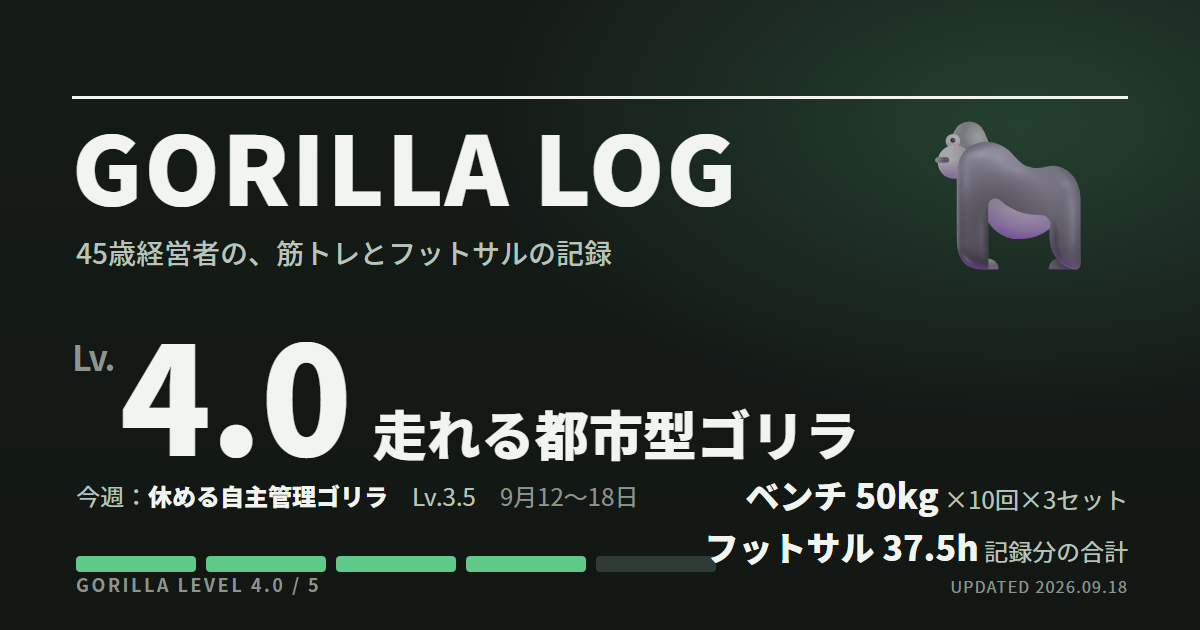
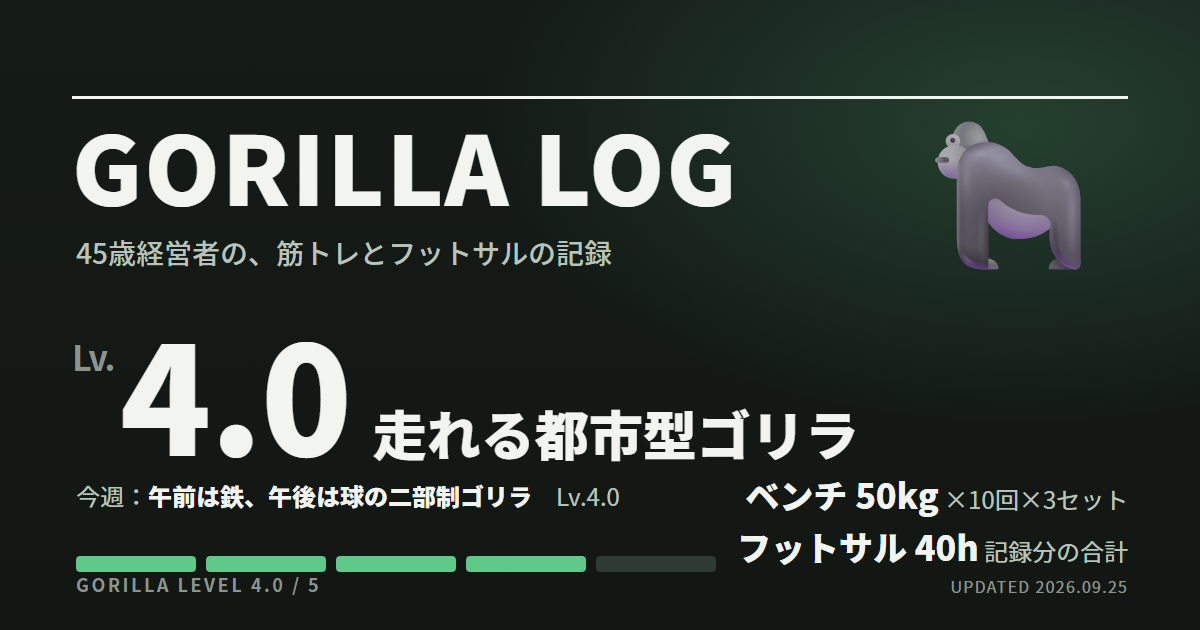
week of 2026-09-25: R38〜R42 を追加、中止タイプと同日2セッションを導入
- 9/20 フットサル中止（台風・採点外）、9/21 自宅16セット、9/22 AM ジム（ベンチ50・スクワット65）＋ PM フットサル2.5h、9/24 自宅16セット
- 週判定「午前は鉄、午後は球の二部制ゴリラ Lv.4.0」と9/22同日判定
- type: "cancel" と session: "AM"/"PM" に対応（カレンダー2色セル、直近7日2段表示）
- OGP テンプレートの週表示から範囲を外し、右側の数字との重なりを解消

Changed region(s): [[0.1233, 0.754, 0.5242, 0.8143], [0.5858, 0.8444, 0.8017, 0.9048], [0.925, 0.9048, 0.9558, 0.9349]]

diff --git a/data/records.js b/data/records.js
@@ -11,9 +11,11 @@
    ■ record の項目
      id        : "R34" のような連番
      date      : "2026-09-18"（YYYY-MM-DD）。曜日から推定した日付なら estimated: true
-     type      : "gym" | "futsal" | "home" | "rest"（rest＝予定していたジムを休んだ記録。level は書かず採点外）
+     type      : "gym" | "futsal" | "home" | "rest" | "cancel"
+                 rest＝予定していたジムを休んだ記録、cancel＝天候などで中止になった記録。どちらも level を書かず採点外
+     session   : "AM" | "PM"  同じ日に2セッションある場合だけ付ける（任意）
      title     : 一覧に出る短い見出し
-     level     : ゴリラレベル 2.0〜5.0（0.5刻み）。休養(rest)は省略
+     level     : ゴリラレベル 2.0〜5.0（0.5刻み）。休養(rest)・中止(cancel)は省略
      provisional : true なら「暫定」。数値が画像未確認など
      nickname  : その日の称号（例「50kg三連完遂ゴリラ」）
      note      : 一言コメント（振り返り）
@@ -32,7 +34,7 @@ window.GORILLA_DATA = {
   meta: {
     siteName: "GORILLA LOG",
     tagline: "45歳経営者の、筋トレとフットサルの記録",
-    updated: "2026-09-18",
+    updated: "2026-09-25",
     since: "2025-09",
     overallLevel: 4.0,
     overallTitle: "走れる都市型ゴリラ",
@@ -341,6 +343,46 @@ window.GORILLA_DATA = {
       exercises: ["ダンベルプレス 7.5kg×15×3", "ワンハンドローイング 7.5kg×30×3", "ブルガリアンスクワット 自重×20×3", "ダンベルフライ 7.5kg×10×3", "フロントレイズ 7.5kg×10×2", "フレンチプレス 7.5kg×15×2"],
       source: "画像で確認",
     },
+    {
+      id: "R38", date: "2026-09-20", type: "cancel",
+      title: "フットサル中止（台風）",
+      nickname: "台風には張り合わないゴリラ",
+      note: "台風のためキャンセル。未実施を怠慢や身体能力の低下として扱わず、他の日に取り返す必要があるとも考えない。中止と終日完全休養は同義ではない。",
+      source: "9月25日の本人報告",
+    },
+    {
+      id: "R39", date: "2026-09-21", type: "home",
+      title: "自宅トレ 6種目・16セット（フライ10・10・20回）", level: 3.5, sets: 16,
+      nickname: "フライ20回を記録する自宅ゴリラ",
+      note: "9月18日と同じ6種目・重量・セット数で、フライの最終セットが10回から20回へ（計40回）。反復数の増加は記録するが、最大筋力が比例して伸びたとは評価しない。翌日は午前ジム・午後フットサル。",
+      exercises: ["ダンベルプレス 7.5kg×15×3", "ワンハンドローイング 7.5kg×30×3", "ブルガリアンスクワット 自重×20×3", "ダンベルフライ 7.5kg×10・10・20", "フロントレイズ 7.5kg×10×2", "フレンチプレス 7.5kg×15×2"],
+      source: "画像で確認",
+    },
+    {
+      id: "R40", date: "2026-09-22", session: "AM", type: "gym",
+      title: "ベンチ50kg×10×3／スクワット65kg×10×3／インクライン32.5kg・ラットプル37kg", level: 4.0,
+      nickname: "50kg・65kgへ戻ってきたゴリラ",
+      note: "9月14日に疲労で休んだ後、ジムに戻って従来の実施内容を再び記録。インクラインは後半2セットが30kgから32.5kgへ（直近比の増量で、過去最高の認定ではない）。フロントレイズ枠がラットプルダウンになり、引く動作を含む。",
+      bench: { w: 50, reps: [10, 10, 10], full: true, verified: true },
+      squat: { w: 65, reps: [10, 10, 10], verified: true },
+      exercises: ["上体起こし 自重×10×3", "ベンチプレス 20×10, 30×5, 50×10×3, 35×10", "インクラインベンチプレス 30×10, 32.5×10×2", "バーベルスクワット 20×10, 40×5, 65×10×3", "ラットプルダウン 35×10, 37×10×2"],
+      source: "画像で確認",
+    },
+    {
+      id: "R41", date: "2026-09-22", session: "PM", type: "futsal",
+      title: "フットサル2.5時間（午前ジムと同日）", hours: 2.5, level: 3.5, provisional: true,
+      nickname: "午後はコートへ移動するゴリラ",
+      note: "午前にスクワット65kg×10×3を含むジム記録があるため、同日の負荷としても見る。同日実施が可能という一般論だけで、この配置が最適だったとは結論づけない。",
+      source: "9月25日の本人報告",
+    },
+    {
+      id: "R42", date: "2026-09-24", type: "home",
+      title: "自宅トレ 6種目・16セット（フライ12・12・20回）", level: 3.5, sets: 16,
+      nickname: "最初の2セットも積み上げるゴリラ",
+      note: "9月21日と同じ構成で、フライの1・2セット目が10回から12回へ（計44回）。フライ以外は前回と同じで、全種目が伸びた週とはまとめない。22日の2部練習後の実施だが、完全回復の証明にはしない。",
+      exercises: ["ダンベルプレス 7.5kg×15×3", "ワンハンドローイング 7.5kg×30×3", "ブルガリアンスクワット 自重×20×3", "ダンベルフライ 7.5kg×12・12・20", "フロントレイズ 7.5kg×10×2", "フレンチプレス 7.5kg×15×2"],
+      source: "画像で確認",
+    },
   ],
 
   /* 週単位・期間単位のゴリラ判定（新しいものを末尾に追加）。comment は「今週のひと言」（任意） */
@@ -352,6 +394,9 @@ window.GORILLA_DATA = {
     { range: "9月5〜11日", combo: "筋トレ3日＋フットサル2日・計4.5時間", level: 4.0, name: "走れる都市型ゴリラ", note: "自宅10＋16セット、ジム16セット。胸・肩にやや偏り" },
     { range: "9月12〜18日", combo: "自宅トレ2日・計32セット＋フットサル1日・2時間／14日のジムは休養", level: 3.5, name: "休める自主管理ゴリラ", note: "運動日3日。疲労による休養は採点外。前週の胸16・背中3セットから、胸12・背中6セットへ",
       comment: "ジムを1回休んだと申告しながら、家では16セットを2回、週末にはフットサル2時間。人間に戻ったわけではなく、勤務形態を調整したゴリラである。ただし、自宅支店まで無休営業にする必要はない。" },
+    { range: "9月22日・同日全体", combo: "午前ジム20セット／午後フットサル2.5時間", level: 4.0, name: "鉄と球の二部制ゴリラ", note: "R40・R41の再整理。追加の実施回数には数えない" },
+    { range: "9月19〜25日（24日までの報告）", combo: "自宅2回＋ジム1回＋フットサル1回・2.5時間／20日は台風で中止", level: 4.0, name: "午前は鉄、午後は球の二部制ゴリラ", note: "運動日3日・4セッション。準備除外48セット（前週32）。胸19・背中9セット。21日→22日への負荷集中に注意",
+      comment: "午前は65kgを担ぎ、午後はボールを追い、別の日には家で16セット。ジムとコートと自宅を使い分ける、二部制ゴリラである。ただし、身体は二交代制ではない。午前の脚と午後の脚は、同じ脚です。" },
   ],
 
   /* 個別の日付に割り当てない継続習慣 */

diff --git a/app.js b/app.js
@@ -4,8 +4,10 @@
   const D = window.GORILLA_DATA;
   const $ = (s) => document.querySelector(s);
   const esc = (s) => String(s ?? "").replace(/[&<>"']/g, (c) => ({ "&": "&amp;", "<": "&lt;", ">": "&gt;", '"': "&quot;", "'": "&#39;" }[c]));
-  const TYPE = { gym: "ジム", futsal: "フットサル", home: "自宅トレ", rest: "休養" };
-  const TYPE_SHORT = { gym: "ジ", futsal: "フ", home: "宅", rest: "休" };
+  const TYPE = { gym: "ジム", futsal: "フットサル", home: "自宅トレ", rest: "休養", cancel: "中止" };
+  const OFF = (t) => t === "rest" || t === "cancel";
+  const COLOR = { gym: "var(--gym)", futsal: "var(--futsal)", home: "var(--home)", rest: "var(--muted)", cancel: "var(--muted)" };
+  const TYPE_SHORT = { gym: "ジ", futsal: "フ", home: "宅", rest: "休", cancel: "止" };
   const DOW = ["日", "月", "火", "水", "木", "金", "土"];
   const parse = (s) => { const [y, m, d] = s.split("-").map(Number); return new Date(y, m - 1, d); };
   const iso = (d) => `${d.getFullYear()}-${String(d.getMonth() + 1).padStart(2, "0")}-${String(d.getDate()).padStart(2, "0")}`;
@@ -66,9 +68,8 @@
   $("#stripRange").textContent = `${md(stripDays[0])}〜${md(stripDays[6])}`;
   $("#strip").innerHTML = stripDays.map((d) => {
     const rs = byDate[iso(d)] || [];
-    const r = rs[0];
-    const t = r ? `<span class="t">${esc(TYPE[r.type])}</span><span>${r.type === "rest" ? "採点外" : r.hours != null ? r.hours + "h" : r.sets ? r.sets + "set" : "Lv." + lv(r.level)}</span>` : `<span>記録なし</span>`;
-    return `<div class="day ${r ? r.type : ""}"><b>${md(d)}</b>${DOW[d.getDay()]}${t}</div>`;
+    const t = rs.length ? rs.map((r) => `<span class="t">${r.session ? r.session + " " : ""}${esc(TYPE[r.type])}</span><span>${OFF(r.type) ? "採点外" : r.hours != null ? r.hours + "h" : r.sets ? r.sets + "set" : "Lv." + lv(r.level)}</span>`).join("") : `<span>記録なし</span>`;
+    return `<div class="day ${rs.length ? rs[0].type : ""}"><b>${md(d)}</b>${DOW[d.getDay()]}${t}</div>`;
   }).join("");
 
   /* ---------- calendar ---------- */
@@ -82,9 +83,11 @@
       for (let i = 0; i < 7; i++) {
         const d = addDays(w, i), k = iso(d), rs = byDate[k] || [];
         const r = rs[0];
-        const cls = ["cell", r ? r.type : "", r && r.estimated ? "est" : "", k > latestDate ? "future" : "", k === latestDate ? "today" : ""].join(" ");
-        const title = r ? `${k}（${DOW[d.getDay()]}）${TYPE[r.type]}：${r.title}` : `${k}（${DOW[d.getDay()]}）記録なし`;
-        html += `<div class="${cls}" title="${esc(title)}" aria-label="${esc(title)}">${r ? TYPE_SHORT[r.type] : ""}</div>`;
+        const multi = rs.length > 1;
+        const cls = ["cell", r ? r.type : "", multi ? "multi" : "", r && r.estimated ? "est" : "", k > latestDate ? "future" : "", k === latestDate ? "today" : ""].join(" ");
+        const title = rs.length ? `${k}（${DOW[d.getDay()]}）` + rs.map((x) => `${x.session ? x.session + " " : ""}${TYPE[x.type]}：${x.title}`).join(" ／ ") : `${k}（${DOW[d.getDay()]}）記録なし`;
+        const style = multi ? ` style="background:linear-gradient(135deg,${COLOR[rs[0].type]} 50%,${COLOR[rs[1].type]} 50%)"` : "";
+        html += `<div class="${cls}"${style} title="${esc(title)}" aria-label="${esc(title)}">${multi ? rs.slice(0, 2).map((x) => TYPE_SHORT[x.type]).join("") : r ? TYPE_SHORT[r.type] : ""}</div>`;
       }
     }
     $("#cal").innerHTML = html;
@@ -227,7 +230,7 @@
     pts.forEach((p, i) => {
       const cx = sc.x(p.date), cy = y(p.level);
       svg += `<circle cx="${cx}" cy="${cy}" r="6.5" fill="var(--surface)"/><circle cx="${cx}" cy="${cy}" r="4.5" fill="var(--${p.type})"/><circle class="hit" data-i="${i}" cx="${cx}" cy="${cy}" r="12"/>`;
-      tips.push(`<b>${dateLabel(p)}・${TYPE[p.type]}</b>Lv.${lv(p.level)}${p.provisional ? "（暫定）" : ""} ${esc(p.nickname)}<br><small>${esc(p.title)}</small>`);
+      tips.push(`<b>${dateLabel(p)}${p.session ? " " + p.session : ""}・${TYPE[p.type]}</b>Lv.${lv(p.level)}${p.provisional ? "（暫定）" : ""} ${esc(p.nickname)}<br><small>${esc(p.title)}</small>`);
     });
     const rows = pts.slice().reverse().map((p) => [dateLabel(p), TYPE[p.type], lv(p.level) + (p.provisional ? " 暫定" : ""), p.nickname]);
     mount("levelChart", svg, tbl([{ t: "日付" }, { t: "種類" }, { t: "Lv.", r: 1 }, { t: "称号" }], rows), tips);
@@ -249,11 +252,11 @@
   /* ---------- records ---------- */
   let filter = "all", showAll = false;
   const LIMIT = 8;
-  const rest = records.filter((r) => r.type === "rest");
-  $("#filters").innerHTML = [["all", "すべて", records.length], ["gym", "ジム", gym.length], ["futsal", "フットサル", futsal.length], ["home", "自宅トレ", home.length], ["rest", "休養", rest.length]]
+  const off = records.filter((r) => OFF(r.type));
+  $("#filters").innerHTML = [["all", "すべて", records.length], ["gym", "ジム", gym.length], ["futsal", "フットサル", futsal.length], ["home", "自宅トレ", home.length], ["off", "休養・中止", off.length]]
     .map(([k, n, c]) => `<button class="chip" type="button" data-f="${k}" aria-pressed="${k === "all"}">${k !== "all" ? `<i class="sw ${k}"></i>` : ""}${n} <span class="num">${c}</span></button>`).join("");
   function renderRecords() {
-    const list = records.slice().reverse().filter((r) => filter === "all" || r.type === filter);
+    const list = records.slice().reverse().filter((r) => filter === "all" || (filter === "off" ? OFF(r.type) : r.type === filter));
     const shown = showAll ? list : list.slice(0, LIMIT);
     $("#recList").innerHTML = shown.map((r) => {
       const d = parse(r.date);
@@ -268,10 +271,10 @@
       if (r.source) tags.push(r.source);
       const det = r.exercises ? `<details><summary>種目の内訳（${r.exercises.length}種目）</summary><ul>${r.exercises.map((e) => `<li>${esc(e)}</li>`).join("")}</ul></details>` : "";
       return `<article class="rec ${r.type}">
-        <div class="date"><b class="num">${d.getMonth() + 1}/${d.getDate()}</b><span class="dow">${d.getFullYear()}年・${DOW[d.getDay()]}曜${r.estimated ? "・推定" : ""}</span></div>
+        <div class="date"><b class="num">${d.getMonth() + 1}/${d.getDate()}</b><span class="dow">${d.getFullYear()}年・${DOW[d.getDay()]}曜${r.session ? "・" + r.session : ""}${r.estimated ? "・推定" : ""}</span></div>
         <div class="main"><div class="type">${esc(TYPE[r.type])}</div><div class="title">${esc(r.title)}</div><div class="nick">${esc(r.nickname)}</div><p class="note">${esc(r.note)}</p>
           <div class="meta">${tags.map((t) => `<span class="tag">${esc(t)}</span>`).join("")}</div></div>
-        <div class="lv">${r.level == null ? `<b class="na">休</b><small>採点外</small>` : `<b>${lv(r.level)}</b><small>/ 5</small>`}</div>${det}
+        <div class="lv">${r.level == null ? `<b class="na">${r.type === "cancel" ? "止" : "休"}</b><small>採点外</small>` : `<b>${lv(r.level)}</b><small>/ 5</small>`}</div>${det}
       </article>`;
     }).join("");
     $("#moreBtn").hidden = showAll || list.length <= LIMIT;

diff --git a/index.html b/index.html
@@ -181,7 +181,9 @@ td.r,th.r{text-align:right}
 .cal .dh{color:var(--muted); text-align:center; font-weight:500; padding-bottom:2px}
 .cell{aspect-ratio:1; width:100%; border-radius:5px; background:var(--surface-2); display:grid; place-items:center; font-size:11px; font-weight:700; color:var(--ink); position:relative; cursor:default}
 .cell.gym{background:var(--gym); color:#fff} .cell.futsal{background:var(--futsal); color:#fff} .cell.home{background:var(--home); color:#161a17}
-.cell.rest{background:transparent; border:2px solid var(--muted); color:var(--ink-2)}
+.cell.rest, .cell.cancel{background:transparent; border:2px solid var(--muted); color:var(--ink-2)}
+.cell.cancel{border-style:dashed}
+.cell.multi{color:#fff; font-size:9.5px; letter-spacing:-.02em; border:0}
 .cell.est::after{content:""; position:absolute; right:3px; top:3px; width:5px; height:5px; border-radius:50%; background:var(--surface)}
 .cell.future{background:transparent; border:1px dashed var(--hair)}
 .cell.today{outline:2px solid var(--ink); outline-offset:1px}
@@ -198,7 +200,7 @@ td.r,th.r{text-align:right}
 .strip .day{flex:1 1 0; min-width:40px; border-radius:8px; padding:6px 4px; text-align:center; font-size:11px; background:var(--surface-2); color:var(--muted); line-height:1.3}
 .strip .day b{display:block; font-size:12px; color:var(--ink)}
 .strip .day.gym{background:var(--gym-wash)} .strip .day.futsal{background:var(--futsal-wash)} .strip .day.home{background:var(--home-wash)}
-.strip .day.rest{background:transparent; border:1px dashed var(--muted)}
+.strip .day.rest, .strip .day.cancel{background:transparent; border:1px dashed var(--muted)}
 .strip .day .t{display:block; font-weight:700; color:var(--ink)}
 
 /* records */
@@ -209,7 +211,7 @@ td.r,th.r{text-align:right}
 .rec-list{display:grid; gap:10px}
 .rec{background:var(--surface); border:1px solid var(--border); border-radius:12px; padding:14px 16px; display:grid; grid-template-columns:auto 1fr auto; gap:6px 16px; align-items:start; border-left:4px solid var(--hair)}
 .rec.gym{border-left-color:var(--gym)} .rec.futsal{border-left-color:var(--futsal)} .rec.home{border-left-color:var(--home)}
-.rec.rest{border-left-color:var(--muted); background:var(--surface-2)}
+.rec.rest, .rec.cancel{border-left-color:var(--muted); background:var(--surface-2)}
 .rec .lv b.na{font-size:20px; color:var(--muted)}
 .rec .date{font-size:12.5px; color:var(--muted); line-height:1.4; min-width:78px}
 .rec .date b{display:block; font-size:15px; color:var(--ink); font-weight:700}
@@ -306,9 +308,9 @@ footer{margin-top:40px; padding-top:18px; border-top:1px solid var(--hair); font
 </section>
 
 <section aria-labelledby="h-cal">
-  <div class="sec-head"><h2 id="h-cal">活動カレンダー</h2><p>週ごとの運動日。ジ＝ジム、フ＝フットサル、宅＝自宅トレ、休＝予定していたジムの休養。右上の小さな点は、曜日から推定した日付。</p></div>
+  <div class="sec-head"><h2 id="h-cal">活動カレンダー</h2><p>週ごとの運動日。ジ＝ジム、フ＝フットサル、宅＝自宅トレ、休＝ジムの休養、止＝天候などによる中止。2色のセルは同じ日の午前・午後。右上の小さな点は、曜日から推定した日付。</p></div>
   <div class="card">
-    <div class="legend"><span><i class="sw sq gym"></i>ジム</span><span><i class="sw sq futsal"></i>フットサル</span><span><i class="sw sq home"></i>自宅トレ</span><span><i class="sw sq rest"></i>休養（採点外）</span></div>
+    <div class="legend"><span><i class="sw sq gym"></i>ジム</span><span><i class="sw sq futsal"></i>フットサル</span><span><i class="sw sq home"></i>自宅トレ</span><span><i class="sw sq rest"></i>休養・中止（採点外）</span></div>
     <div class="cal" id="cal"></div>
     <p class="cal-note" id="calNote"></p>
   </div>
@@ -340,7 +342,7 @@ footer{margin-top:40px; padding-top:18px; border-top:1px solid var(--hair); font
 </section>
 
 <section aria-labelledby="h-rec">
-  <div class="sec-head"><h2 id="h-rec">全記録</h2><p>新しい順。「暫定」は数値を画像で確認できていない回。「推定」は曜日から割り出した日付。休養は採点外で、Lv.0として平均を下げない。</p></div>
+  <div class="sec-head"><h2 id="h-rec">全記録</h2><p>新しい順。「暫定」は数値を画像で確認できていない回。「推定」は曜日から割り出した日付。休養・中止は採点外で、Lv.0として平均を下げない。</p></div>
   <div class="filters" id="filters" role="group" aria-label="種類で絞り込み"></div>
   <div class="rec-list" id="recList"></div>
   <div class="more"><button class="btn" id="moreBtn" type="button">すべて表示</button></div>

diff --git a/scripts/build-og.js b/scripts/build-og.js
@@ -39,7 +39,7 @@ body{background:#121714;color:#f1f4ef;font-family:"Noto Sans CJK JP","Noto Sans 
 .lv{font-size:150px;font-weight:900;line-height:1;letter-spacing:-.01em}
 .lv small{font-size:34px;font-weight:700;color:#8b958e;vertical-align:top;position:relative;top:22px;margin-right:6px}
 .title{font-size:54px;font-weight:900;line-height:1.1}
-.week{position:absolute;left:76px;top:478px;font-size:24px;color:#b9c2bb}
+.week{position:absolute;left:76px;top:478px;font-size:24px;color:#b9c2bb;max-width:600px;white-space:nowrap;overflow:hidden;text-overflow:ellipsis}
 .week b{color:#f1f4ef;font-weight:900}
 .meter{position:absolute;left:76px;bottom:58px;display:flex;gap:10px}
 .meter span{width:120px;height:16px;border-radius:4px;background:#2f3a33;overflow:hidden;position:relative}
@@ -55,7 +55,7 @@ body{background:#121714;color:#f1f4ef;font-family:"Noto Sans CJK JP","Noto Sans 
 <div class="tag">${esc(D.meta.tagline)}</div>
 <div class="gor">🦍</div>
 <div class="lvwrap"><div class="lv"><small>Lv.</small>${lv.toFixed(1)}</div><div class="title">${esc(D.meta.overallTitle)}</div></div>
-<div class="week">今週：<b>${esc(week.name)}</b>${week.level != null ? `　Lv.${week.level.toFixed(1)}` : ""}　<span style="color:#8b958e">${esc(week.range)}</span></div>
+<div class="week">今週：<b>${esc(week.name)}</b>${week.level != null ? `　Lv.${week.level.toFixed(1)}` : ""}</div>
 <div class="meter">${[1, 2, 3, 4, 5].map((i) => `<span><i style="width:${Math.max(0, Math.min(1, lv - (i - 1))) * 100}%"></i></span>`).join("")}</div>
 <div class="cap">GORILLA LEVEL ${lv.toFixed(1)} / 5</div>
 <div class="stats">${lastBench ? `<b>ベンチ ${lastBench.bench.w}kg</b> ${fmtReps(lastBench.bench)}<br>` : ""}<b>フットサル ${futsalHours}h</b> 記録分の合計</div>

diff --git a/DESIGN_AND_OPERATIONS.md b/DESIGN_AND_OPERATIONS.md
@@ -68,9 +68,10 @@ GORILLA_DATA
 | `id` | 文字列 | ○ | `"R34"` のような連番。表示には使わないが追跡用 |
 | `date` | `"YYYY-MM-DD"` | ○ | 実施日。ソートとカレンダー配置に使う |
 | `estimated` | 真偽 | | 曜日から推定した日付なら `true`。一覧に「推定」、カレンダーに小さな点 |
-| `type` | `"gym"` / `"futsal"` / `"home"` / `"rest"` | ○ | 色・集計・フィルタの軸。`rest` は予定していたジムの休養 |
+| `type` | `"gym"` / `"futsal"` / `"home"` / `"rest"` / `"cancel"` | ○ | 色・集計・フィルタの軸。`rest` はジムの休養、`cancel` は天候などによる中止 |
+| `session` | `"AM"` / `"PM"` | | 同日2セッションのときだけ。一覧の日付、ツールチップ、直近7日に表示 |
 | `title` | 文字列 | ○ | 一覧の見出し |
-| `level` | 数値 | ○ | 2.0〜5.0、0.5刻み。`rest` は書かない（採点外） |
+| `level` | 数値 | ○ | 2.0〜5.0、0.5刻み。`rest` / `cancel` は書かない（採点外） |
 | `provisional` | 真偽 | | 数値を画像で確認できていない回。「暫定」表示 |
 | `nickname` | 文字列 | ○ | その日の称号 |
 | `note` | 文字列 | ○ | 振り返りの一言 |
@@ -82,7 +83,7 @@ GORILLA_DATA
 | `exercises` | 文字列[] | | 種目の全リスト。一覧で折りたたみ表示 |
 | `source` | 文字列 | | 出典メモ。タグとして表示 |
 
-**休養（`type: "rest"`）の扱い：** 運動実施回数・セット数・レベル推移グラフには入れない。カレンダーと直近7日には「休」として出し、一覧では「採点外」。Lv.0 として平均を下げない、という元アーカイブの方針をそのまま実装している。
+**休養・中止（`type: "rest"` / `"cancel"`）の扱い：** 運動実施回数・セット数・レベル推移グラフには入れない。カレンダーと直近7日には「休」「止」として出し、一覧では「採点外」。フィルタでは「休養・中止」の1チップにまとめる。Lv.0 として平均を下げない、という元アーカイブの方針をそのまま実装している。
 
 `bench.full` は三値：`true`（10回×3セット達成）、`false`（未達・一部）、`null`（回数不明）。グラフの点の形が変わる（塗り／輪／破線の輪）。
 
@@ -117,7 +118,7 @@ GORILLA_DATA
 ### 4.3 活動カレンダー
 
 - 範囲：2026-06-01 以降の最初の記録を含む週の月曜 〜 anchor を含む週の日曜
-- 1日1セル。同日に複数記録がある場合は先頭の1件を表示
+- 1日1セル。同日に2セッションある場合は、2色の斜め分割セルに略字を2文字（例「ジフ」）。ツールチップに両方の内容
 - 範囲外の記録（3月の5時間フットサル）は下部の注記に列挙
 - 月曜始まり。将来日は破線、anchor 当日は枠線
 
@@ -310,4 +311,5 @@ git push
 |---|---|
 | 2026-09-11 | 初版。33項目のアーカイブを構造化し、ダッシュボード・OGP・GA4ローダーを実装。GitHub Pages で公開 |
 | 2026-09-18 | R34〜R37 を追加（37項目）。休養タイプ `rest` を導入し採点外として表示。週判定に「今週のひと言」を追加。OGP画像のフットサル合計を37.5hに更新 |
+| 2026-09-25 | R38〜R42 を追加（42項目）。中止タイプ `cancel` と同日2セッション（`session`）を導入。週判定に9/22同日全体と9/19〜25週を追加 |
 | 2026-09-18 | 配信を GitHub Actions に切替。OGP 画像を記録データから自動生成し、`og:image` / `og:url` に更新日バージョンを自動刻印。シェアボタンを追加 |

diff --git a/README.md b/README.md
@@ -58,7 +58,8 @@ md-archive/          ChatGPT から書き出した週次アーカイブ md（公
 | 項目 | 意味 |
 |---|---|
 | `date` | `YYYY-MM-DD`。曜日から推定した日付なら `estimated: true` を付ける（一覧に「推定」、カレンダーに小さな点が出る） |
-| `type` | `gym` / `futsal` / `home` / `rest`（予定していたジムを休んだ記録。`level` は書かない＝採点外） |
+| `type` | `gym` / `futsal` / `home` / `rest`（ジムの休養）/ `cancel`（天候などによる中止）。`rest` と `cancel` は `level` を書かない＝採点外 |
+| `session` | 同じ日に2セッションある場合だけ `"AM"` / `"PM"` を付ける。カレンダーは2色セル、直近7日は2段で表示 |
 | `level` | ゴリラレベル 2.0〜5.0、0.5刻み |
 | `provisional` | 数値を画像で確認できていない回は `true`（「暫定」表示） |
 | `hours` | フットサルの参加時間。不明なら書かない（合計から除外される） |
